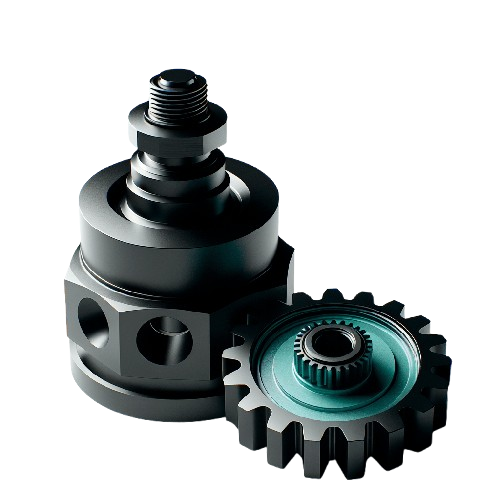
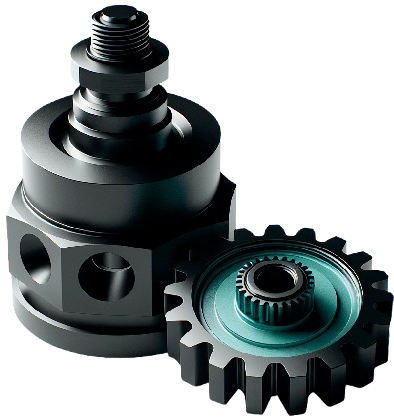
Added darkmode toggle button

diff --git a/src/componenets/Pages/Navbar/Navbar.jsx b/src/componenets/Pages/Navbar/Navbar.jsx
@@ -4,6 +4,8 @@ import { HiOutlineDotsHorizontal } from "react-icons/hi";
 import { IoIosCloseCircleOutline } from "react-icons/io";
 import { FontAwesomeIcon } from "@fortawesome/react-fontawesome";
 import { faGears } from "@fortawesome/free-solid-svg-icons";
+import { IoMoon } from "react-icons/io5";
+import { IoSunny } from "react-icons/io5";
 const NavbarMenu = [
   {
     id: 1,
@@ -23,6 +25,12 @@ const NavbarMenu = [
 ];
 
 const Navbar = () => {
+  const [dark, setDark] = React.useState(false);
+
+  const darkModeHandler = () => {
+    setDark(!dark);
+    document.body.classList.toggle("dark");
+  };
   const [menu, setMenu] = React.useState(false);
   function openMenu() {
     setMenu(true);
@@ -32,13 +40,13 @@ const Navbar = () => {
   }
   return (
     <>
-      <div className=" shadow-sm border-b-0 bg-[url('/assets/BlackBg.png')] bg-cover bg-center-bottom">
-        <nav className="container   mx-auto flex items-center justify-between text-white font-bold  py-5  font-poppins">
+      <div className=" shadow-sm border-b-0 bg-[#eefefe] dark:bg-[url('/assets/BlackBg.png')] bg-cover bg-center-bottom">
+        <nav className="container   mx-auto flex items-center justify-between text-buttonHoverColor dark:text-white font-bold  py-5  font-poppins">
           {/* Logo Section*/}
           <div>
             <a href="/">
               {" "}
-              <h3 className="text-xl font-bold flex text-buttonColor">
+              <h3 className="text-xl font-bold flex ">
                 <FontAwesomeIcon icon={faGears} />
                 APSS
               </h3>
@@ -48,11 +56,17 @@ const Navbar = () => {
           <div className="hidden md:block">
             <ul className="flex items-center gap-5">
               {NavbarMenu.map((item) => (
-                <li key={item.id}>
+                <li key={item.id} className="text-sm/7 font-semibold">
                   <a href={item.link}>{item.title}</a>
                 </li>
               ))}
             </ul>
+          </div>
+          <div>
+            <button onClick={() => darkModeHandler()}>
+              {dark && <IoSunny />}
+              {!dark && <IoMoon />}
+            </button>
           </div>
           {/* Hamburger Section*/}
           <div className="md:hidden relative">
@@ -66,10 +80,13 @@ const Navbar = () => {
         <div>
           {menu && (
             <div className="">
-              <div className="absolute start-0 top-12 w-full max-h-full  bg-black z-10 text-white font-bold">
+              <div className="absolute start-0 top-12 w-full max-h-full bg-[#eefefe] dark:bg-[url('/assets/BlackBg.png')] bg-cover bg-center z-10 text-white font-bold">
                 <ul>
                   {NavbarMenu.map((item) => (
-                    <li className="text-center p-5" key={item.id}>
+                    <li
+                      className="text-center p-5 text-buttonHoverColor dark:text-white"
+                      key={item.id}
+                    >
                       <a href={item.link}>{item.title}</a>
                     </li>
                   ))}{" "}

diff --git a/src/componenets/Pages/HeroBanner/Hero.jsx b/src/componenets/Pages/HeroBanner/Hero.jsx
@@ -10,19 +10,19 @@ const Hero = () => {
   return (
     <>
       <main>
-        <div className="bg-[url('/assets/BlackBg.png')] bg-cover bg-center">
-          <div className="container grid grid-cols-1 md:grid-cols-3  md:py-16 md:gap-12">
-            <div className=" text-center md:text-start pt-10">
+        <div className="bg-[#eefefe] dark:bg-[url('/assets/BlackBg.png')] bg-cover bg-center">
+          <div className="container grid grid-cols-1 md:grid-cols-3 py-12  md:py-16 md:gap-12">
+            <div className=" text-center md:text-start">
               <div
                 data-aos="fade-down"
                 data-aos-duration="1500"
                 data-aos-once="true"
               >
                 {" "}
-                <h1 className="text-3xl pb-3  text-stone-300 font-varela">
+                <h1 className="text-3xl pb-3 text-buttonHoverColor dark:text-stone-300 font-varela">
                   Powering Industries, Driving Innovation
                 </h1>
-                <p className="pb-3  text-sm/7 text-stone-300 ">
+                <p className="pb-3  text-sm/7 text-buttonHoverColor dark:text-stone-300 ">
                   Welcome to{" "}
                   <strong className=" animate-pulse">
                     APSS, Your One-Stop Shop for Premium Mechanical Parts
@@ -51,7 +51,7 @@ const Hero = () => {
               data-aos-once="true"
             >
               {" "}
-              <p className="pb-3  text-sm/7 text-stone-300 ">
+              <p className="pb-3  text-sm/7 text-buttonHoverColor dark:text-stone-300 ">
                 As industry leaders in supplying industrial machinery components
                 and automotive parts, we are not just selling products, we are
                 fueling the engines of progress.

diff --git a/src/componenets/Pages/About Us/AboutUsHero.jsx b/src/componenets/Pages/About Us/AboutUsHero.jsx
@@ -9,8 +9,8 @@ const AboutUsHero = () => {
   return (
     <>
       <main>
-        <div className="bg-[url('/assets/BlackBg.png')] bg-cover bg-center">
-          <div className="container grid grid-cols-1 md:grid-cols-3  md:py-16 md:gap-12">
+        <div className="bg-[#eefefe] dark:bg-[url('/assets/BlackBg.png')] bg-cover bg-center">
+          <div className="container grid grid-cols-1 md:grid-cols-3 py-12  md:py-16 md:gap-12">
             <div className=" text-center md:text-start pt-10">
               <div
                 data-aos="fade-down"
@@ -18,10 +18,10 @@ const AboutUsHero = () => {
                 data-aos-once="true"
               >
                 {" "}
-                <h1 className="text-3xl pb-3  text-stone-300 font-varela  ">
+                <h1 className="text-3xl pb-3  text-buttonHoverColor dark:text-stone-300 font-varela  ">
                   Your Trusted Partner in Mechanical Parts
                 </h1>
-                <p className="pb-3  text-sm/7 text-stone-300 ">
+                <p className="pb-3  text-sm/7 text-buttonHoverColor dark:text-stone-300 ">
                   At APSS Solutions, we are not just a mechanical parts reseller
                   – we are your dedicated partner in powering innovation and
                   efficiency.
@@ -47,7 +47,7 @@ const AboutUsHero = () => {
               data-aos-once="true"
             >
               {" "}
-              <p className="pb-3  text-sm/7 text-stone-300 ">
+              <p className="pb-3  text-sm/7 text-buttonHoverColor dark:text-stone-300 ">
                 Our journey began with a simple vision: to provide top-quality
                 mechanical components with unparalleled service and expertise.
               </p>

diff --git a/src/componenets/Pages/Process/ProcessHero.jsx b/src/componenets/Pages/Process/ProcessHero.jsx
@@ -9,8 +9,8 @@ const ProcessHero = () => {
   return (
     <>
       <main>
-        <div className="bg-[url('/assets/BlackBg.png')] bg-cover bg-center">
-          <div className="container grid grid-cols-1 md:grid-cols-3  md:py-16 md:gap-12">
+        <div className="bg-[#eefefe] dark:bg-[url('/assets/BlackBg.png')] bg-cover bg-center">
+          <div className="container grid grid-cols-1 md:grid-cols-3 py-12  md:py-16 md:gap-12">
             <div className=" text-center md:text-start pt-10">
               <div
                 data-aos="fade-down"
@@ -18,10 +18,10 @@ const ProcessHero = () => {
                 data-aos-once="true"
               >
                 {" "}
-                <h1 className="text-3xl pb-3  text-stone-300 font-varela  ">
+                <h1 className="text-3xl pb-3  text-buttonHoverColor dark:text-stone-300 font-varela  ">
                   Get Your Tailored Quote Today!
                 </h1>
-                <p className="pb-3  text-sm/7 text-stone-300 ">
+                <p className="pb-3  text-sm/7 text-buttonHoverColor dark:text-stone-300 ">
                   At APSS, we are your one-stop shop for all things mechanical.
                 </p>
               </div>
@@ -45,7 +45,7 @@ const ProcessHero = () => {
               data-aos-once="true"
             >
               {" "}
-              <p className="pb-3  text-sm/7 text-stone-300 ">
+              <p className="pb-3  text-sm/7 text-buttonHoverColor dark:text-stone-300 ">
                 Whether you need industrial machinery parts, general mechanical
                 spares, or automotive components, we have got you covered.
               </p>

diff --git a/src/componenets/Pages/RequestQuote/RequestQuote.jsx b/src/componenets/Pages/RequestQuote/RequestQuote.jsx
@@ -6,13 +6,13 @@ const RequestQuote = () => {
     <div>
       {" "}
       <section className=" ">
-        <div className=" container py-20 flex flex-col items-center">
+        <div className=" container  flex flex-col items-center">
           <div className="lg:py-12 text-center">
             {" "}
             <h1 className="lg:text-3xl md:text-2xl text-lg pb-3 text-center font-bold">
               Join Our Journey
             </h1>
-            <p className="pb-3 text-sm/7">
+            <p className="pb-3 px-28 text-sm/7">
               As we look to the future, we&#39;re excited about the
               possibilities that lie ahead. From emerging technologies to
               evolving industry needs, we&#39;re committed to staying one step

diff --git a/tailwind.config.js b/tailwind.config.js
@@ -1,17 +1,10 @@
 /** @type {import('tailwindcss').Config} */
 export default {
   content: ["./index.html", "./src/**/*.{js,ts,jsx,tsx}"],
+
+  darkMode: "class",
   theme: {
     extend: {
-      animation: {
-        wiggle: "wiggle 1s ease-in-out infinite",
-      },
-      keyframes: {
-        wiggle: {
-          "0%, 100%": { transform: "rotate(-3deg)" },
-          "50%": { transform: "rotate(3deg)" },
-        },
-      },
       container: {
         center: true, // Centers the container
         padding: {

diff --git a/src/componenets/Pages/HomePage/HomePage.jsx b/src/componenets/Pages/HomePage/HomePage.jsx
@@ -138,7 +138,7 @@ const HomePage = () => {
             >
               <img
                 className="h-auto rounded-lg w-full max-w-sm"
-                src="/assets/BlackandTealImg.png"
+                src="/assets/HeaderImg.png"
                 alt="image description"
               />
             </div>{" "}
